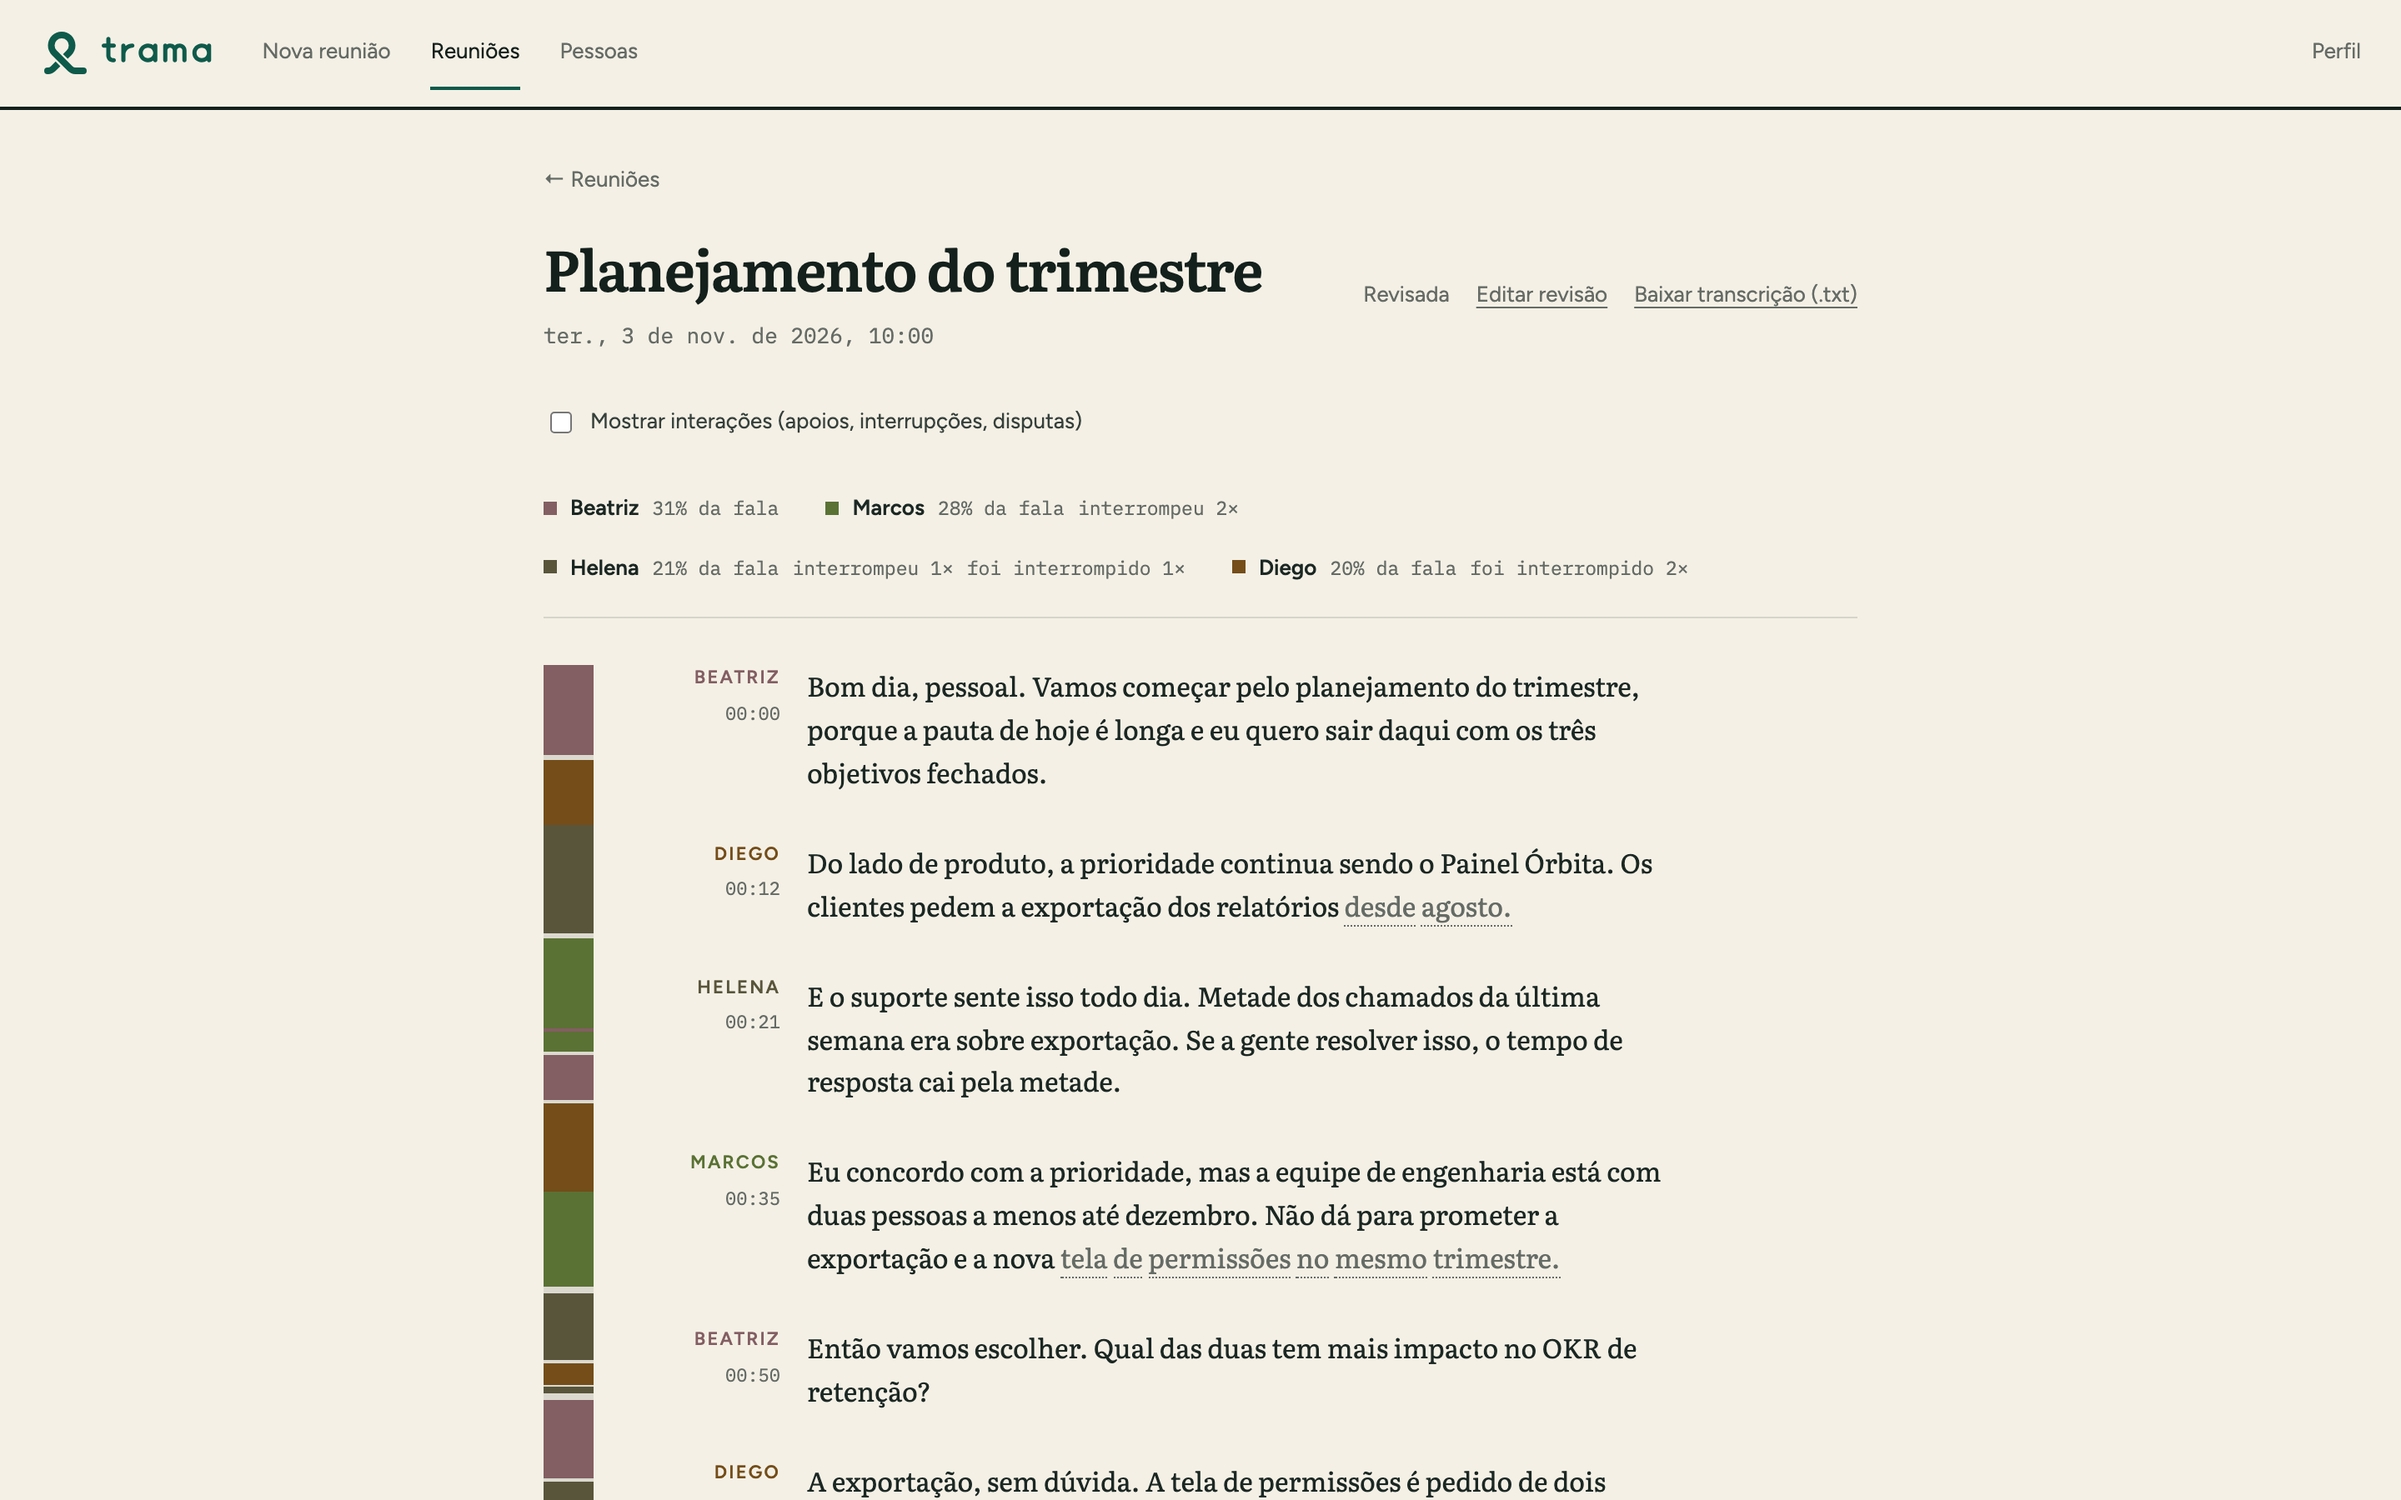
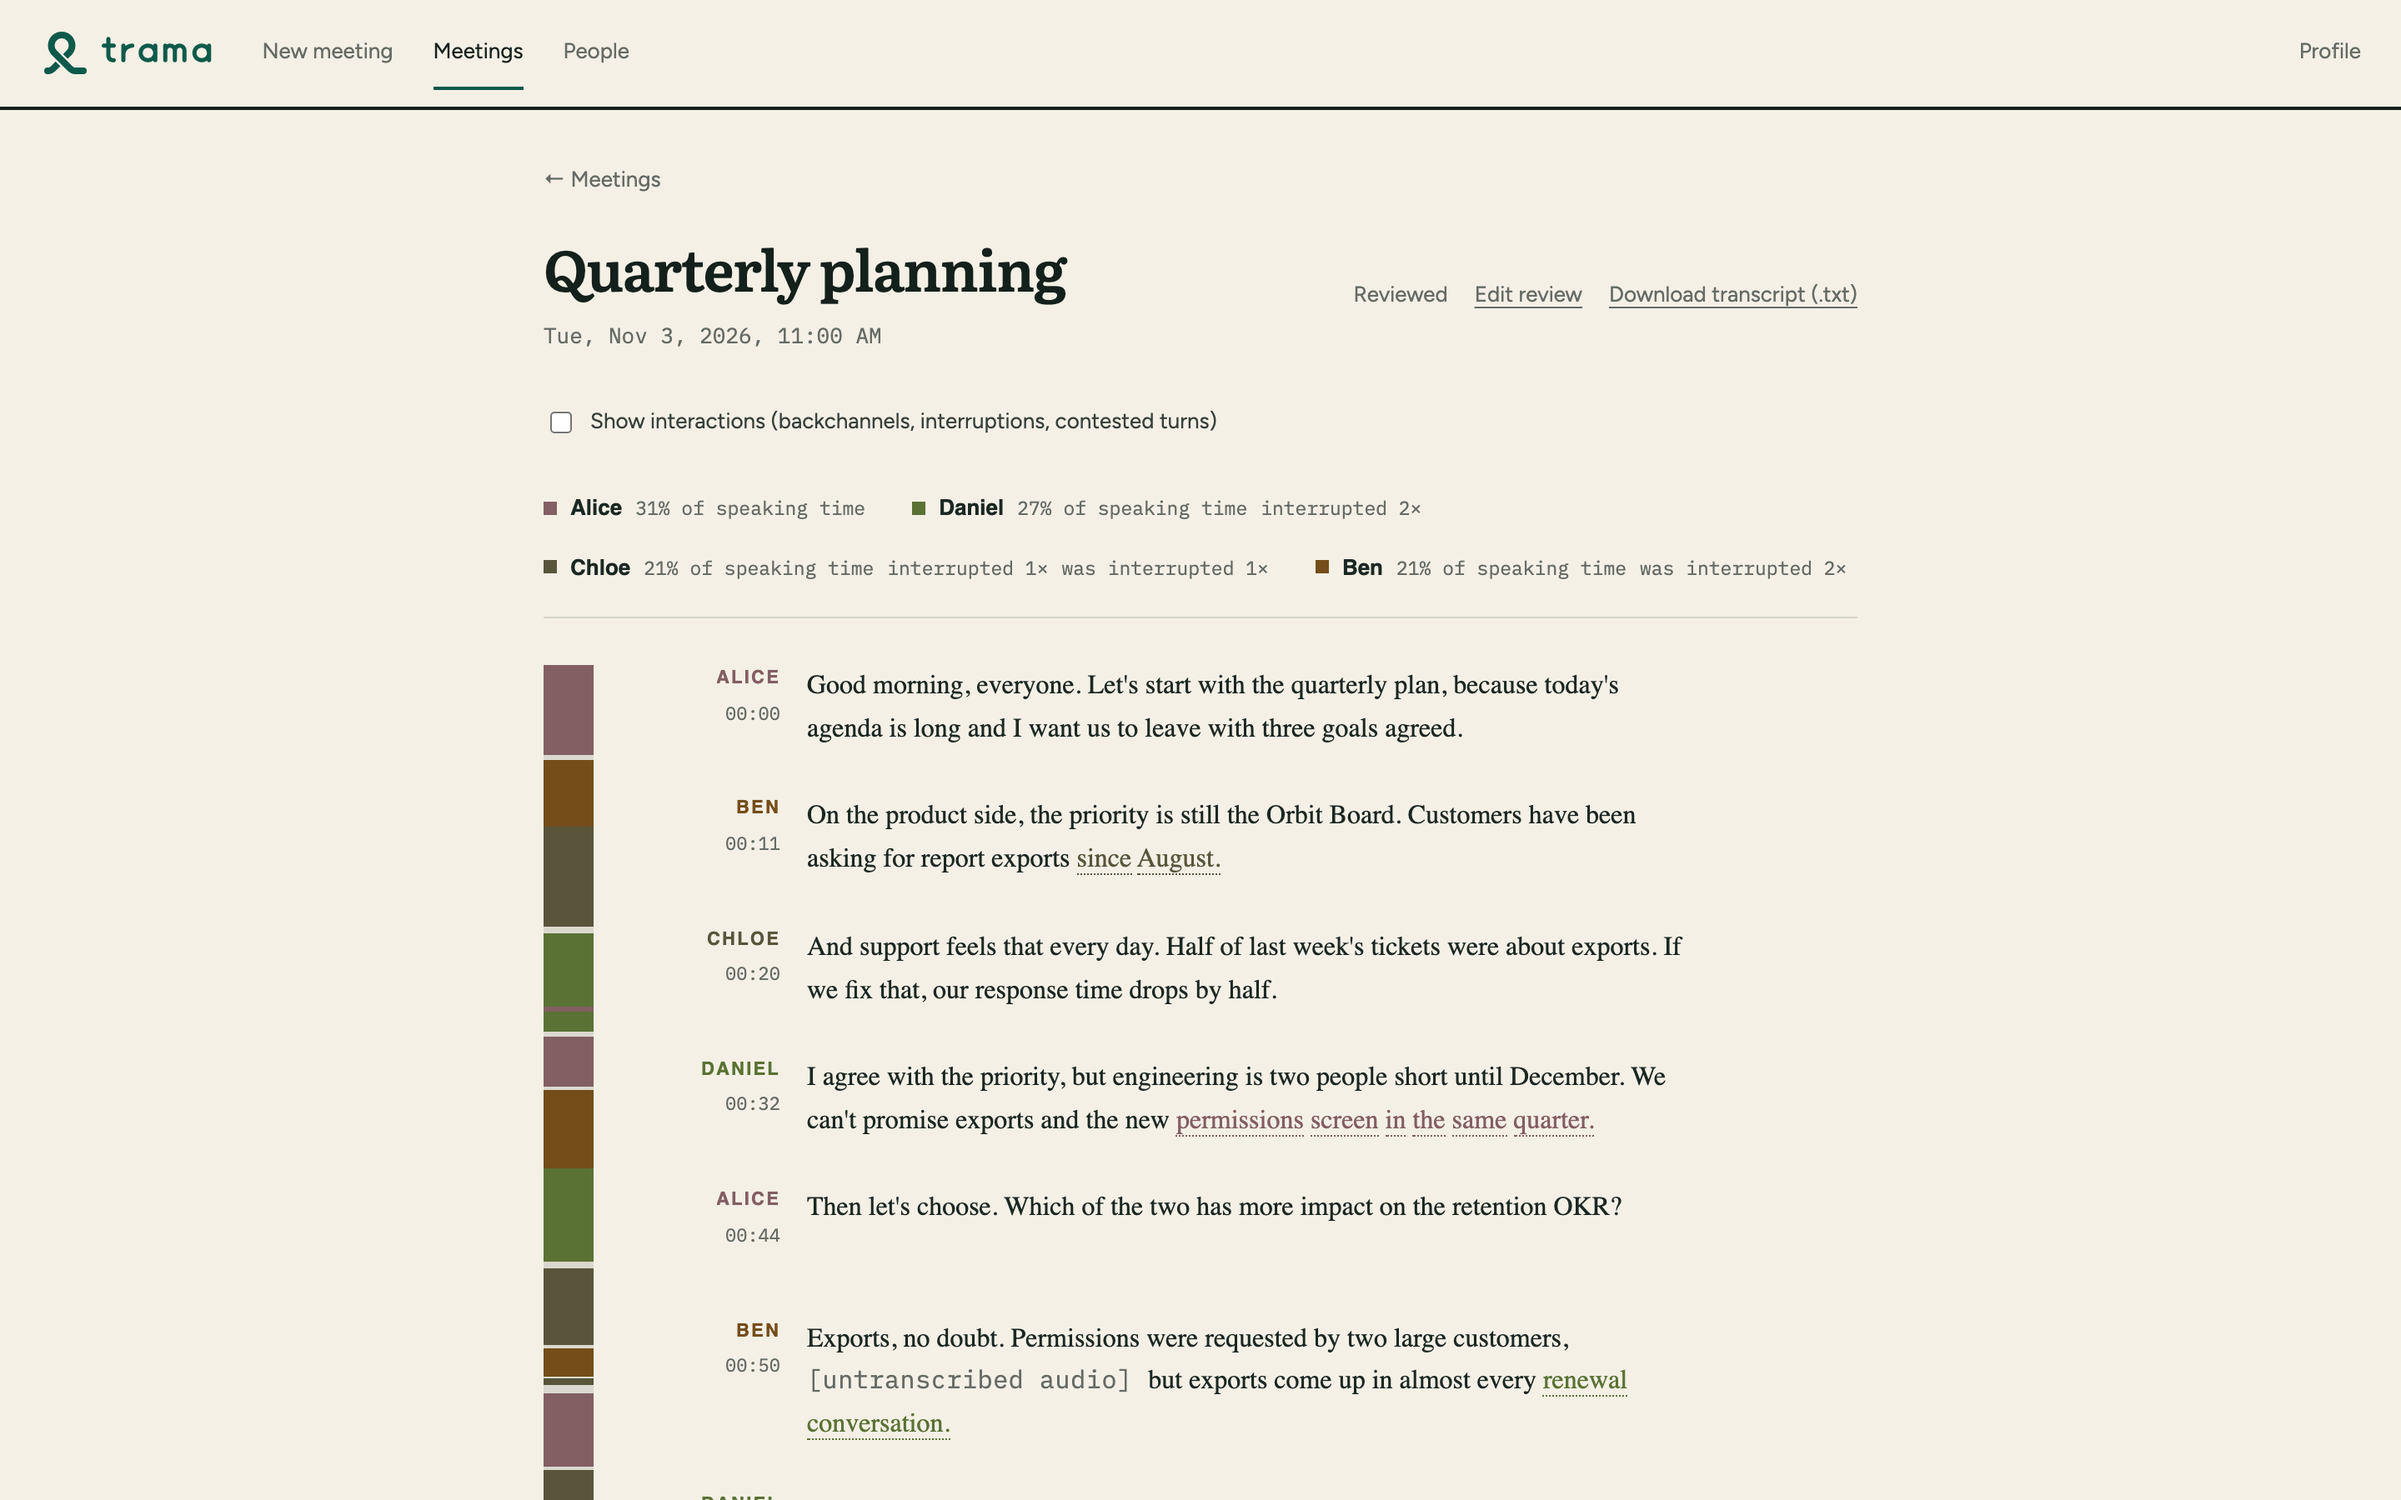
feat: capturas em ingles (README) e em portugues (docs/capturas/pt)
npm run capturas gera os dois conjuntos: interface e demonstracao em
ingles em docs/capturas/ - as do README - e em portugues em
docs/capturas/pt/, seis telas nos modos claro e escuro. O servidor sobe
de novo para cada idioma com os dados dele; a interface entra no idioma
pelo localStorage. A nota da secao Idioma ganhou o espaco que faltava
acima dela (visto na captura).

diff --git a/frontend/src/telas/Perfil.css b/frontend/src/telas/Perfil.css
@@ -64,6 +64,12 @@
   color: var(--tinta-fraca);
 }
 
+/* Nota logo abaixo de um grupo de opcoes (secao Idioma): o grupo nao tem
+   margem embaixo, e a nota grudava nos botoes. */
+.perfil__opcoes + .perfil__nota {
+  margin-top: 12px;
+}
+
 .perfil__erro {
   color: var(--alerta);
 }

diff --git a/README.md b/README.md
@@ -57,10 +57,12 @@ raised the risk, who interrupted whom.
 
 ## Screenshots
 
-Taken from the bundled demo data (fictional company, people and
-conversations — see [Running the demo](#running-the-demo)). Each image
-follows your GitHub light/dark theme; both versions are in
-[`docs/capturas/`](docs/capturas/).
+Taken from the bundled English demo data (fictional company, people and
+conversations — see [Running the demo](#running-the-demo)), with the
+interface in English. Each image follows your GitHub light/dark theme; both
+versions are in [`docs/capturas/`](docs/capturas/). The same screens are
+also available in Portuguese, with the Portuguese demo, in
+[`docs/capturas/pt/`](docs/capturas/pt/).
 
 | Meetings | Review: who is each voice? |
 |---|---|
